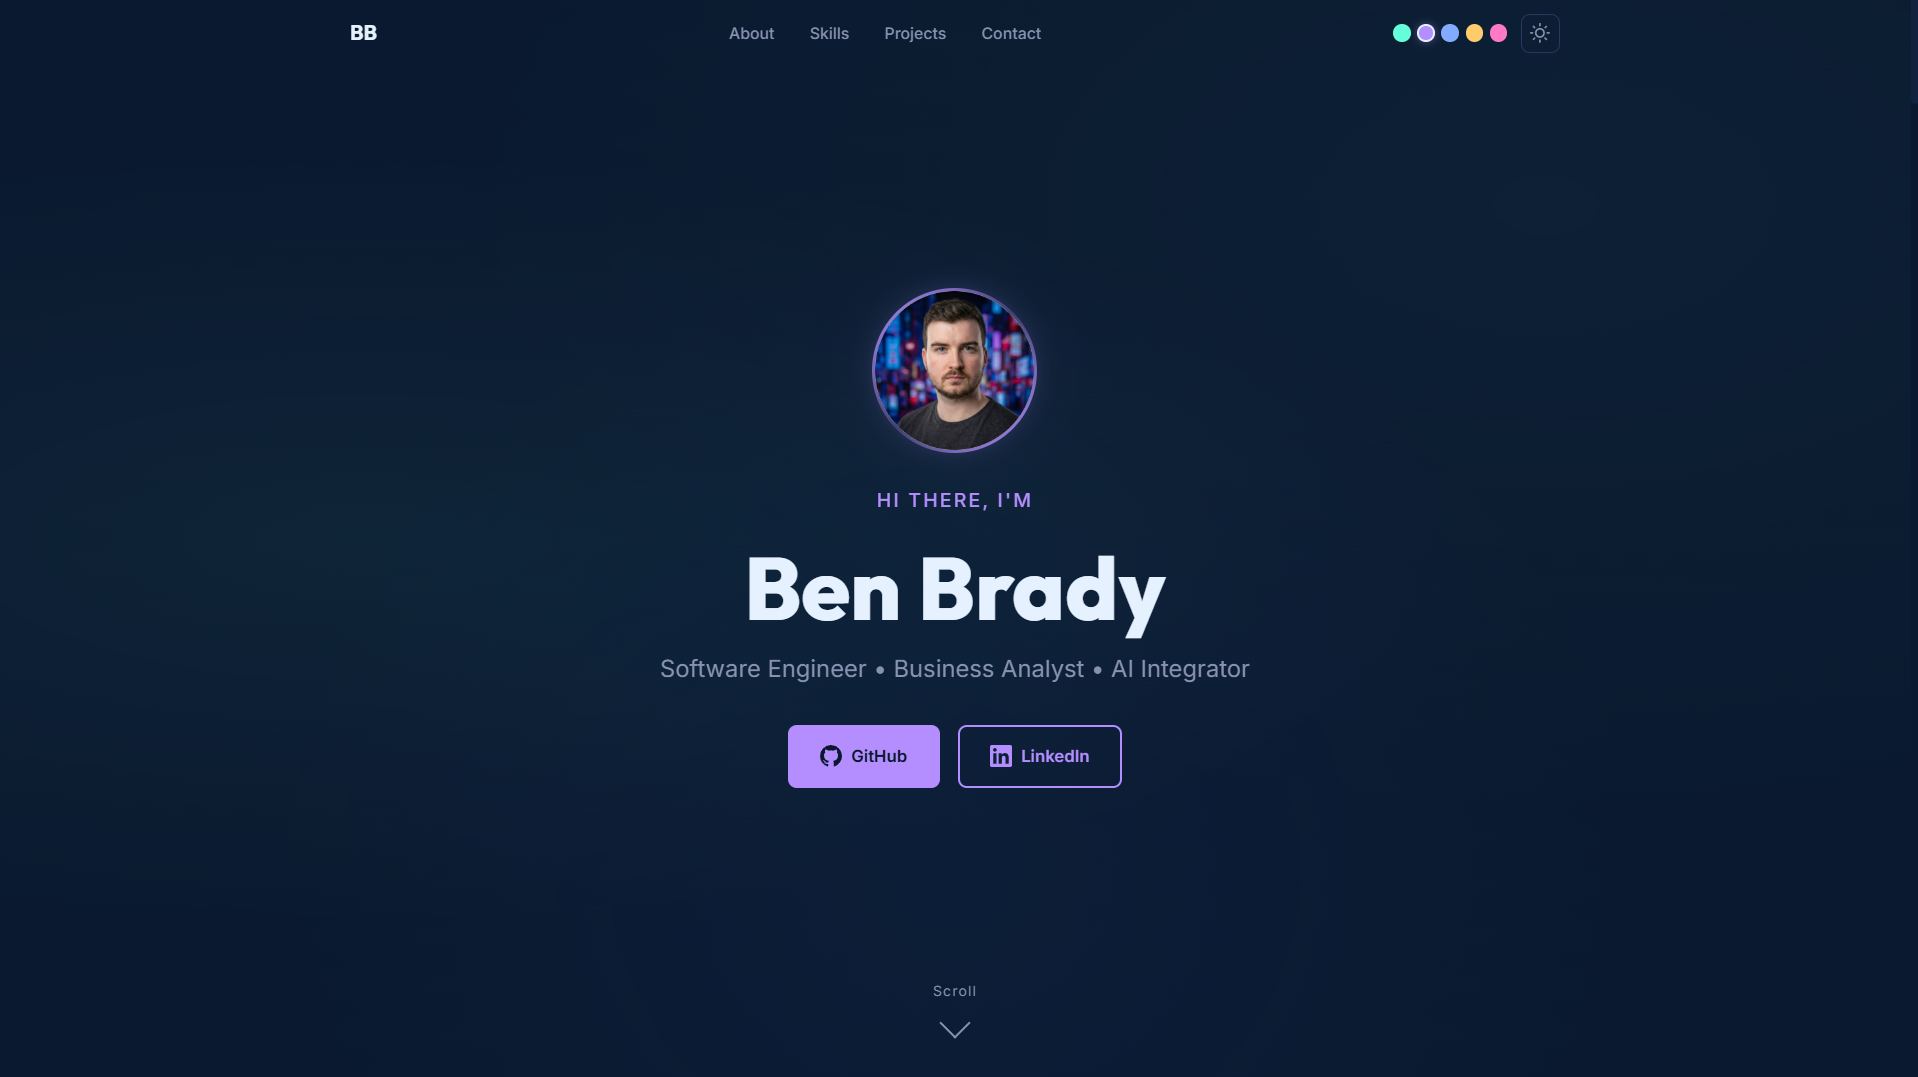
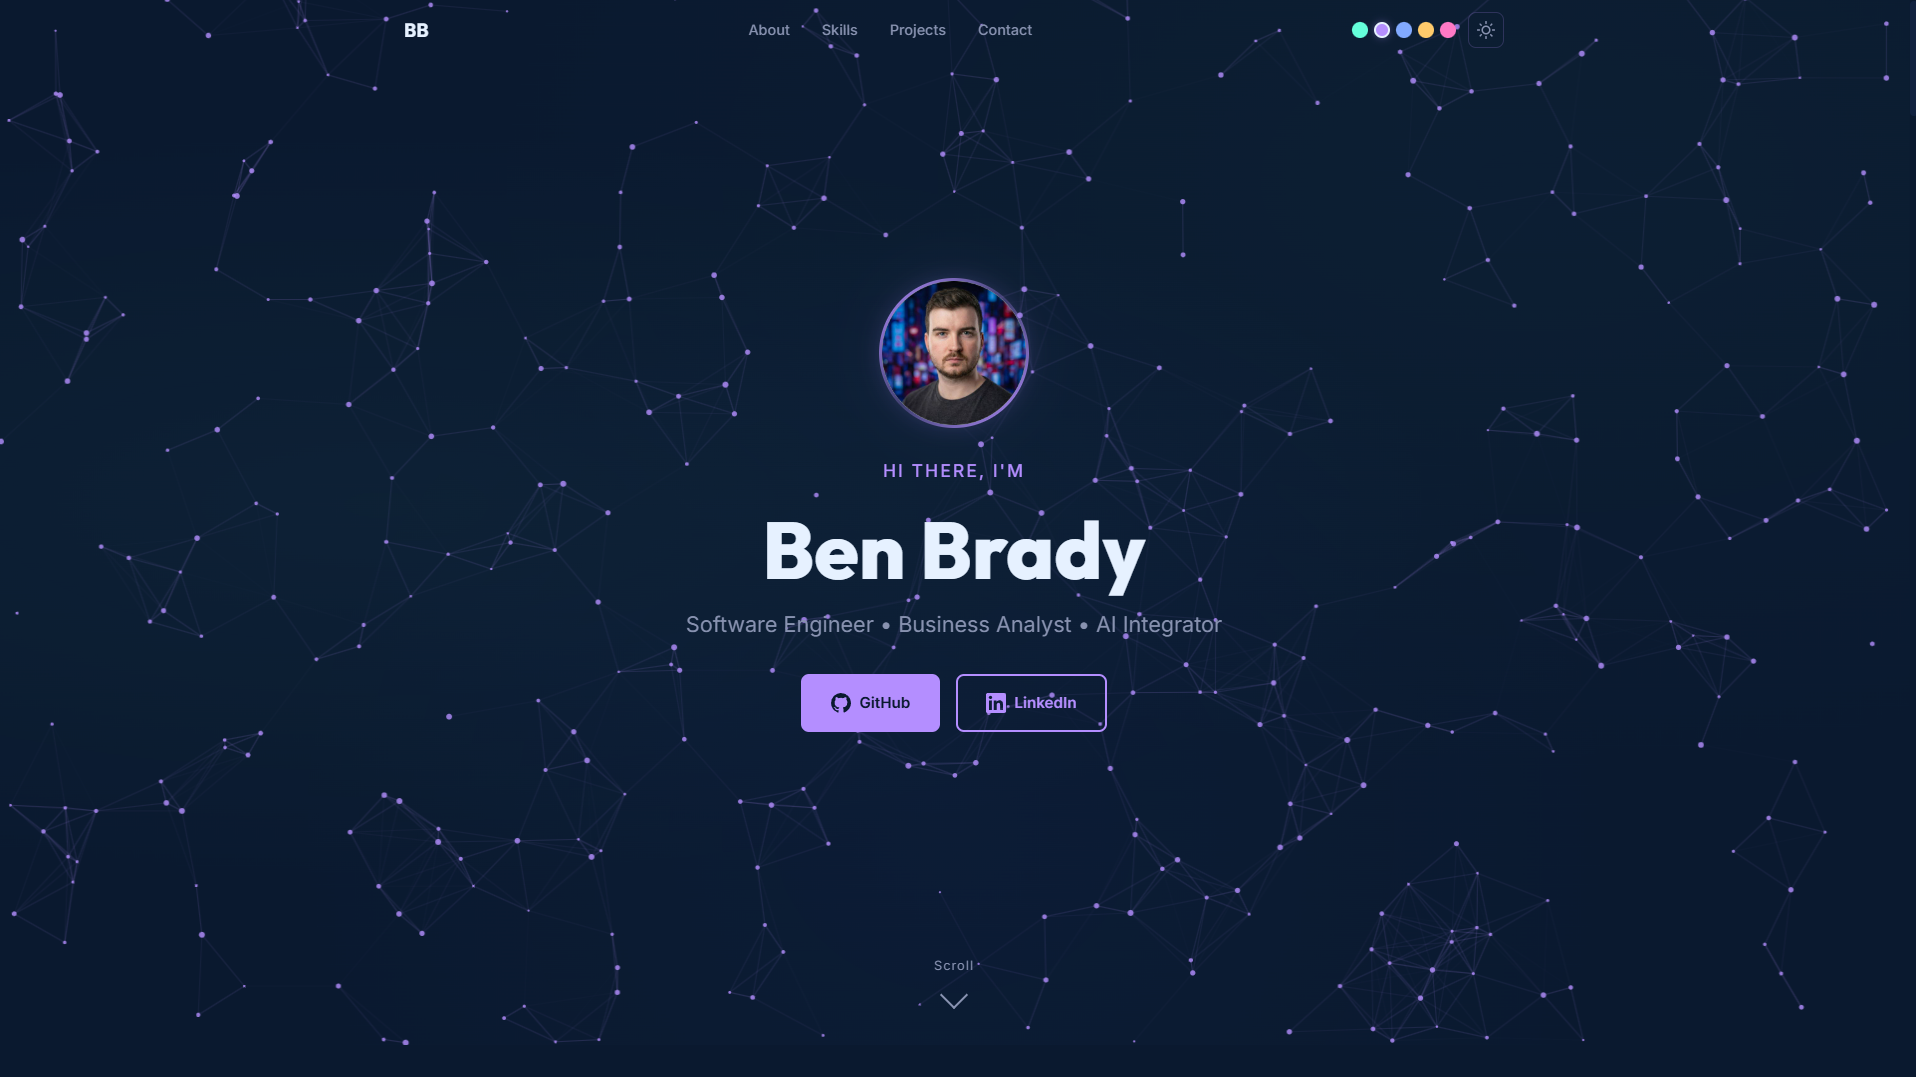
Updated hero image to latest view and updated README with latest domain changes

diff --git a/README.md b/README.md
@@ -1,4 +1,4 @@
-# 💻 Ben Brady — Personal Portfolio
+# 💻 Ben Brady - Personal Portfolio
 
 A professional personal portfolio webpage showcasing my projects, career history, and tech stack — built with React & Vite, featuring a dynamic theme system and live project demos.
 
@@ -11,6 +11,7 @@ A professional personal portfolio webpage showcasing my projects, career history
 ## ✨ Features
 
 - 🎨 **Dynamic Theme System** — Toggle between dark and light mode with 5 accent colour palettes (Teal, Purple, Blue, Orange, Pink), persisted to `localStorage`
+- 🌟 **Interactive Particle Hero** — Custom HTML5 Canvas particle network that dynamically matches the active theme and repels away from the user's cursor
 - 🧭 **Sticky Navigation** — Glassmorphism navbar with section links, palette switcher dots, and responsive mobile hamburger menu
 - 📜 **Scroll Fade-In Animations** — Sections and cards elegantly fade into view as you scroll, powered by `IntersectionObserver` with `MutationObserver` re-observation
 - 📱 **Fully Responsive** — Optimised for desktop, tablet, and mobile viewports
@@ -24,7 +25,7 @@ A professional personal portfolio webpage showcasing my projects, career history
 
 ## 📜 Live Demo
 
-[![About Me Webpage Showcase](src/assets/About%20Me%20Webpage%20Showcase.png)](https://benbrady96.github.io/about-me-webpage/)
+[![About Me Webpage Showcase](src/assets/About%20Me%20Webpage%20Showcase.png)](https://benbrady96.is-a.dev/)
 
 ---
 
